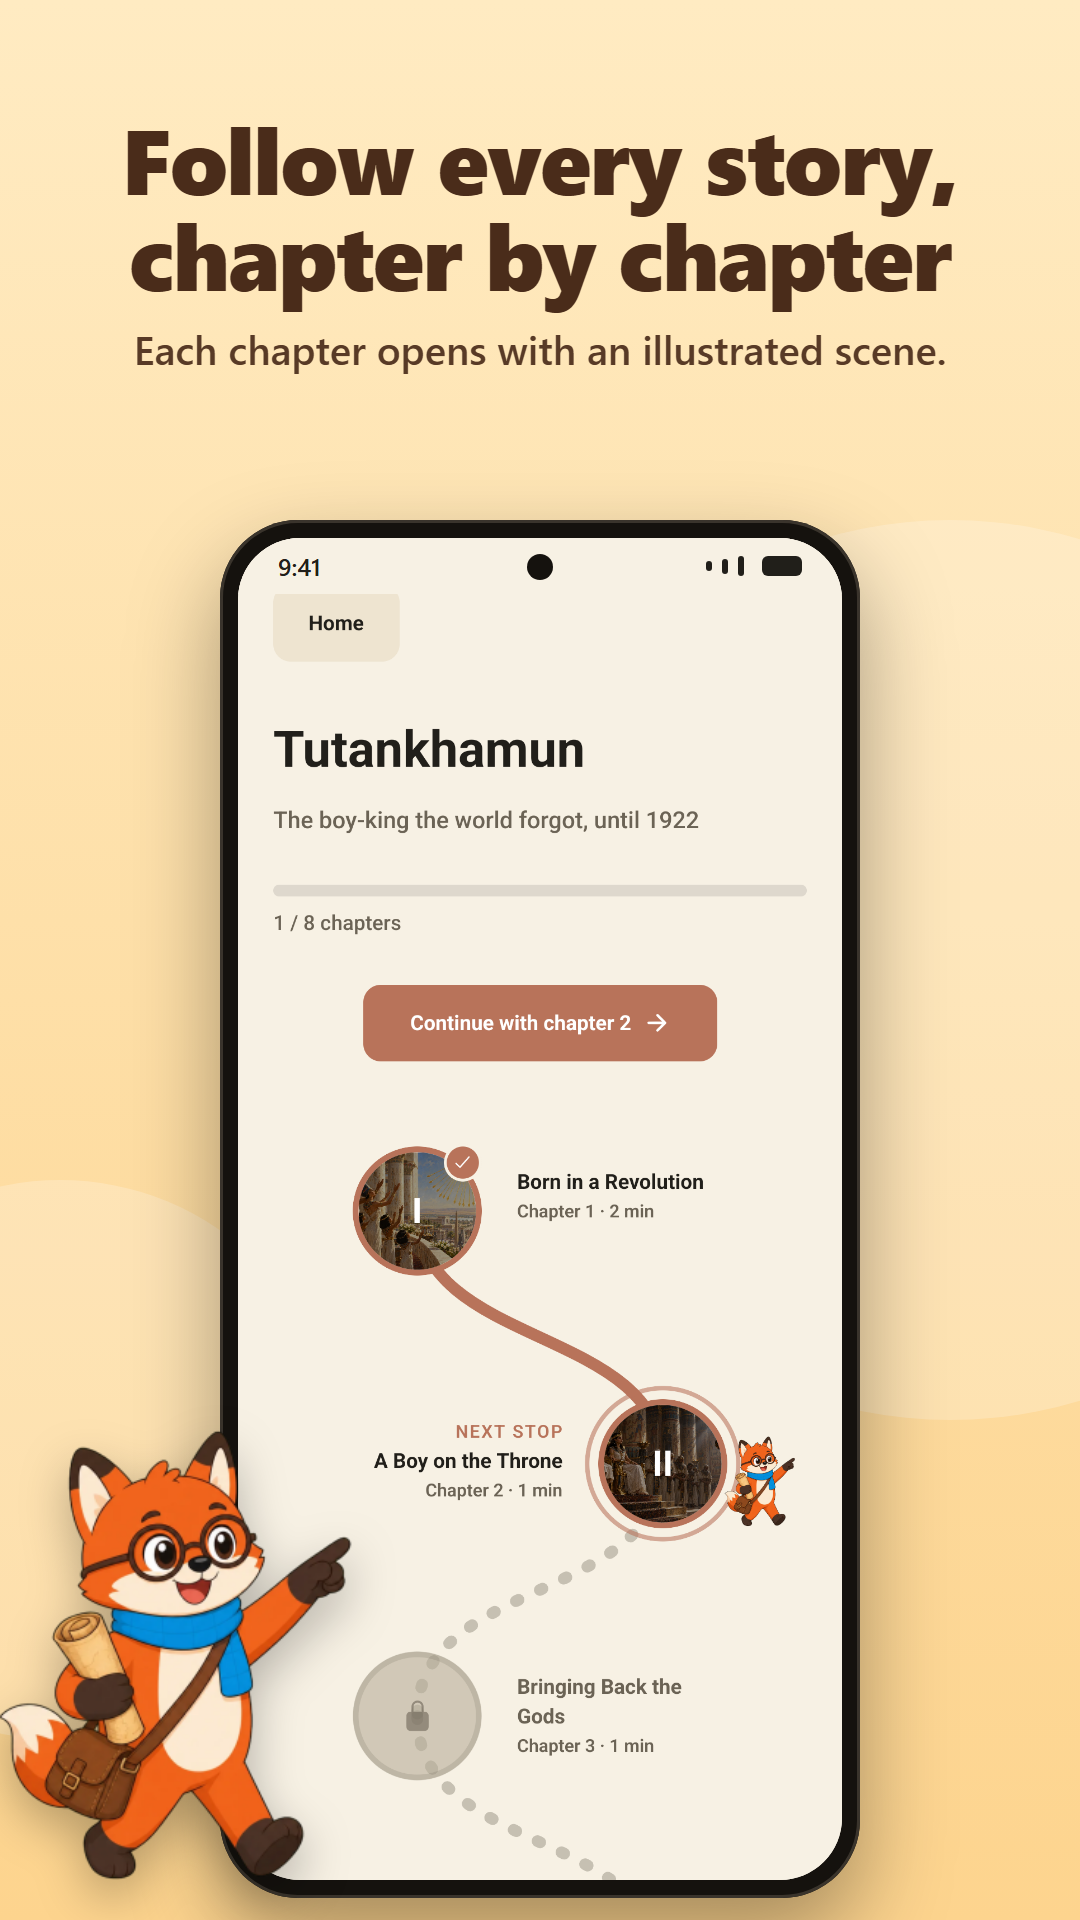
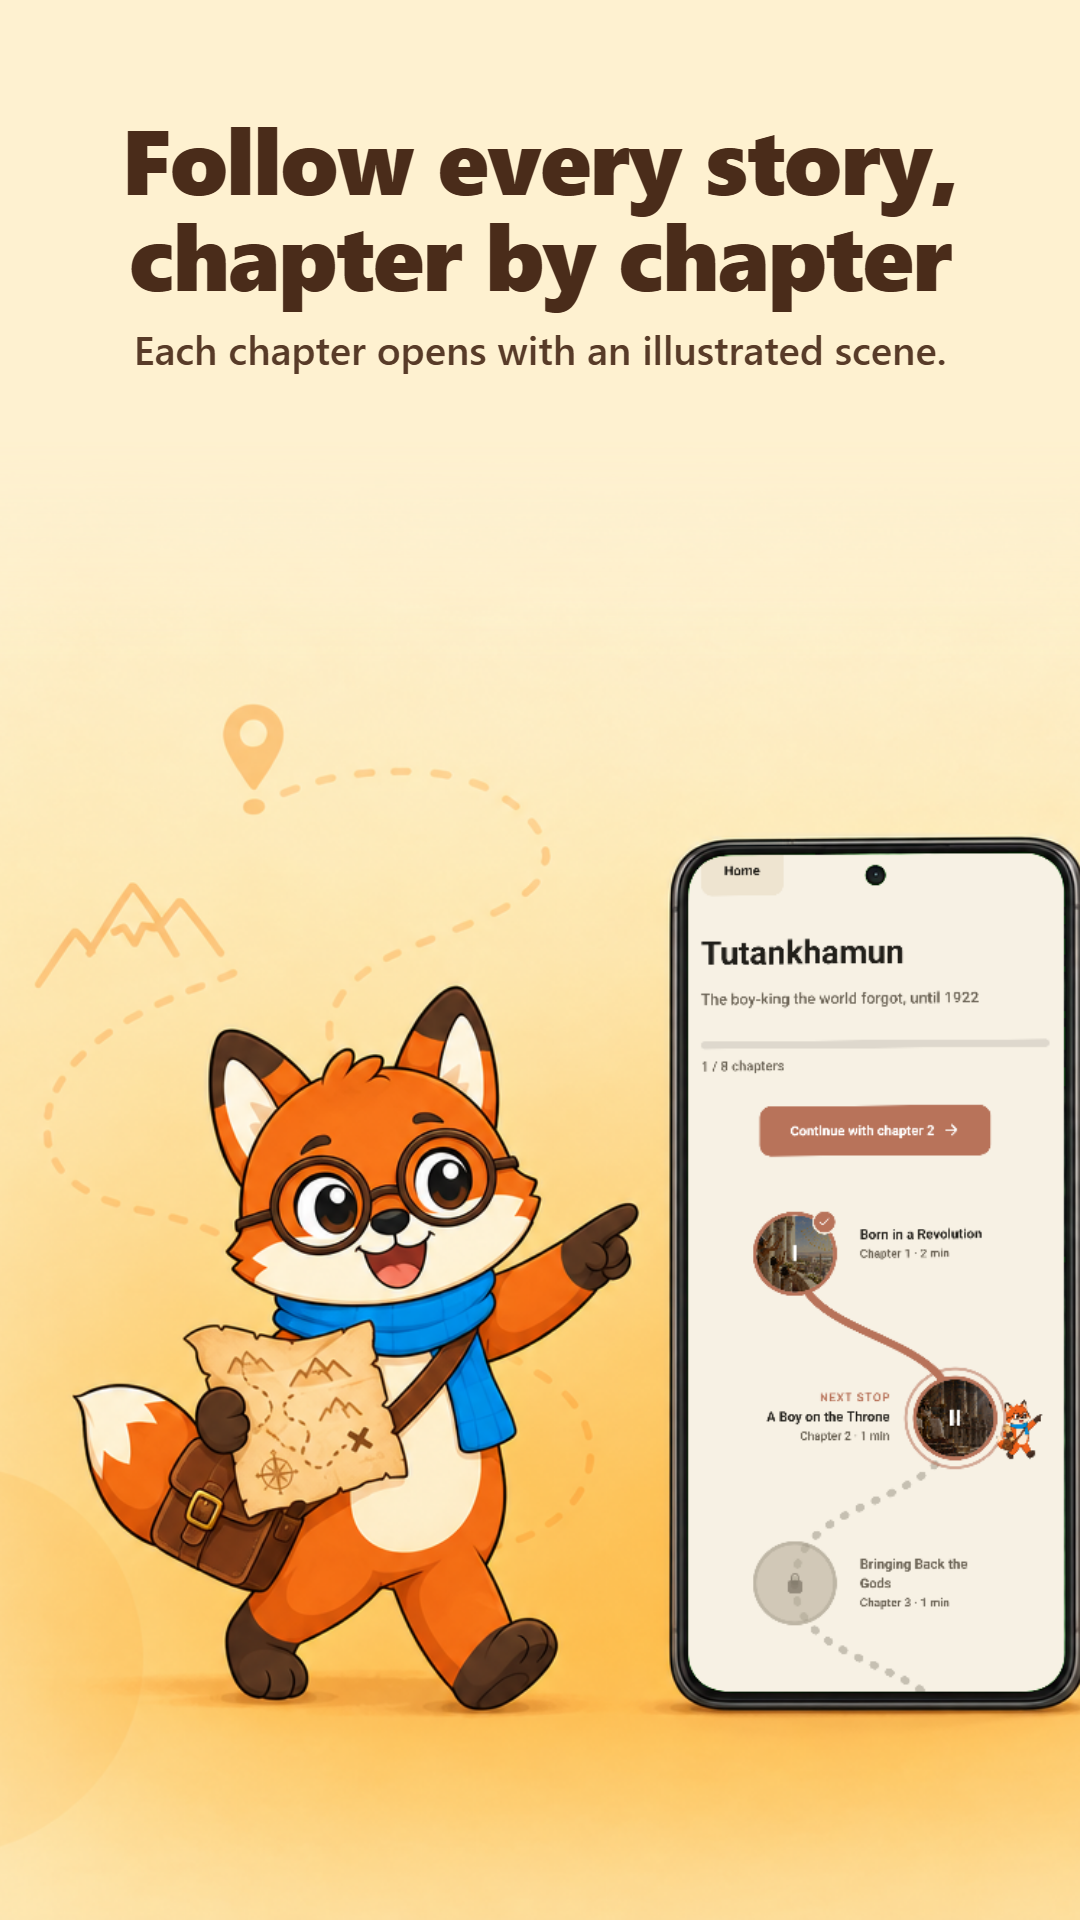
Store screenshots 1.5: all six slides in a Phoxy scene
Four new Higgsfield scenes (route, quiz, trivia, reader) with the real
screens placed in the green screen, like home/streak.

diff --git a/store/screenshots.html b/store/screenshots.html
@@ -131,7 +131,8 @@
 
 <script>
   // Elke dia: kop, onderregel, achtergrond, welk scherm, welke vos en aan welke kant.
-  // 1.4: zes dia's. Twee met een Higgsfield-scène (Home, streak), vier met de getekende telefoon
+  // 1.5: alle zes in een Higgsfield-scène (scènes 4-7 zijn 1024 px; `sceneBreed` schaalt ze zo dat vos
+  // én telefoon heel blijven). Vóór 1.5: twee scènes, vier met de getekende telefoon
   // in hetzelfde warme verloop. "Phoxy" is een interne naam en komt dus niet in de koppen; en geen
   // aantallen (verhalen, tijdperken, kroontjes) — die verouderen zodra er iets bijkomt.
   const WARM = { van: '#FFEBC2', naar: '#FDD48E', tekst: '#4A2C1A' };
@@ -145,17 +146,17 @@
     {
       kop: 'Follow every story,<br>chapter by chapter',
       sub: 'Each chapter opens with an illustrated scene.',
-      ...WARM, scherm: 'route-verhaal-1.5.png', vos: 'op-weg.png', kant: 'links',
+      scherm: 'route-verhaal-1.5.png', scene: 'scenes/klaar/scene-4-route.png', achtergrond: '#FEF1D0', tekst: '#4A2C1A', sceneBreed: 1480, sceneLinks: -62,
     },
     {
       kop: 'Learn<br>as you read',
       sub: 'A quick question after every chapter, with a friendly fox as your teacher.',
-      ...WARM, scherm: 'quiz-goed-1.5.png', vos: 'leraar-wijzend.png', kant: 'rechts', spiegel: true, statusbalk: '#89847C',
+      scherm: 'quiz-goed-1.5.png', scene: 'scenes/klaar/scene-5-quiz.png', achtergrond: '#FEEFCC', tekst: '#4A2C1A', sceneBreed: 1450, sceneLinks: -310,
     },
     {
       kop: 'Spin the wheel,<br>beat the fox',
       sub: 'History trivia from every era. Win six crowns before the fox does.',
-      ...WARM, scherm: 'trivia-1.5.png', vos: 'era-middeleeuwen.png', kant: 'links',
+      scherm: 'trivia-1.5.png', scene: 'scenes/klaar/scene-6-trivia.png', achtergrond: '#FDF1D2', tekst: '#4A2C1A', sceneBreed: 1480, sceneLinks: -67,
     },
     {
       kop: 'Keep your<br>streak alive',
@@ -167,7 +168,7 @@
     {
       kop: 'Stories that read<br>like a novel',
       sub: 'Short chapters about real people and the moments that shaped our world.',
-      ...WARM, scherm: 'reader-1.5.png', vos: 'fase-2-ochtend.png', kant: 'rechts', spiegel: true,
+      scherm: 'reader-1.5.png', scene: 'scenes/klaar/scene-7-reader.png', achtergrond: '#FEEECC', tekst: '#4A2C1A', sceneBreed: 1550, sceneLinks: -328,
     },
   ];
 
@@ -189,7 +190,7 @@
     dia.style.color = d.tekst;
     dia.innerHTML = `
       <div class="kop"><h1>${d.kop}</h1><p>${d.sub}</p></div>
-      <img class="scene" src="${d.scene}" alt=""${d.sceneLinks != null ? ` style="left:${d.sceneLinks}px"` : ''}>
+      <img class="scene" src="${d.scene}" alt="" style="${d.sceneLinks != null ? `left:${d.sceneLinks}px;` : ''}${d.sceneBreed ? `width:${d.sceneBreed}px;` : ''}">
     `;
   } else dia.innerHTML = `
     <div class="kop"><h1>${d.kop}</h1><p>${d.sub}</p></div>
